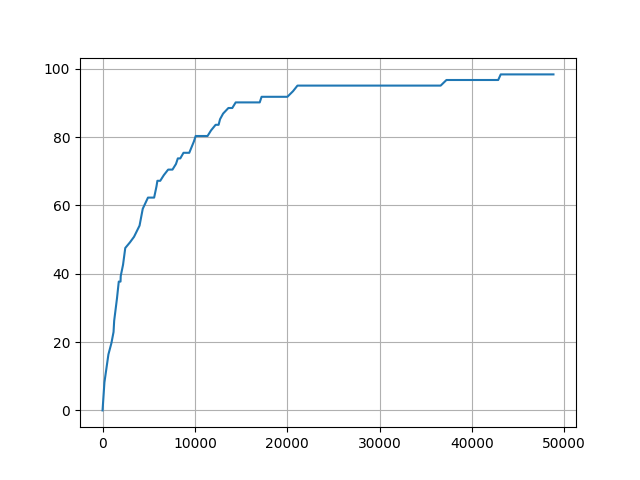
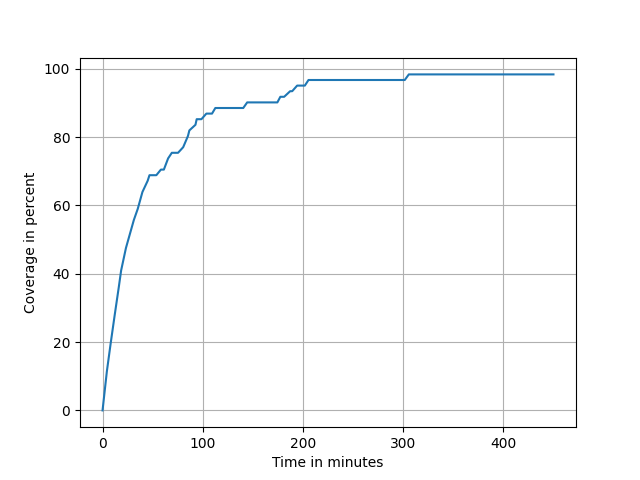
2D: updated result recording with time

diff --git a/2D/src/RandomWalkController.java b/2D/src/RandomWalkController.java
@@ -30,17 +30,17 @@ public class RandomWalkController {
 
     public void randomWalkRecordResult() {
         ArrayList<String> coveragePercentage = new ArrayList<>();
-        ArrayList<String> angle = new ArrayList<>();
+        ArrayList<String> time = new ArrayList<>();
         int numSteps = 0;
 
         while (!world.isCovered()) {
 
             if (numSteps % 10 == 0) {
-                double percent = 100 - world.getCoveragePercentage();
+                double percent = world.getCoveragePercentage();
                 float absAngle = lappa.getAbsoluteMotorMovement();
+                float t = convertAbsAngleToTimeInMinutes(absAngle, numSteps);
                 coveragePercentage.add(Double.toString(percent));
-                angle.add(Float.toString(absAngle));
-                System.out.println("Percentage covered: " + percent);
+                time.add(Float.toString(t));
             }
 
             float motor = new Random().nextInt(361) - 180;
@@ -56,7 +56,7 @@ public class RandomWalkController {
 
         System.out.println("World is covered");
         writeResultsToCSV(convertListToArray(coveragePercentage), "coverage_percentage.csv");
-        writeResultsToCSV(convertListToArray(angle), "angle.csv");
+        writeResultsToCSV(convertListToArray(time), "time.csv");
     }
 
     private void writeResultsToCSV(String[] data, String path) {
@@ -74,5 +74,9 @@ public class RandomWalkController {
     private String[] convertListToArray(ArrayList<String> data) {
         String[] arr = new String[data.size()];
         return data.toArray(arr);
+    }
+
+    private float convertAbsAngleToTimeInMinutes(float absAngle, int numSteps) {
+        return (numSteps * 3 + absAngle * 1/2) / 60;
     }
 }

diff --git a/2D/src/World.java b/2D/src/World.java
@@ -33,7 +33,7 @@ public class World {
     public double getCoveragePercentage() {
         double totalPointsToCover = pointsToCover.size();
         double restToCover = unCoveredPoints.size();
-        return (restToCover / totalPointsToCover) * 100;
+        return 100 - ((restToCover / totalPointsToCover) * 100);
     }
 
     private double normalizeTo1Decimal(double coord) {

diff --git a/2D-plot/coverageplot.py b/2D-plot/coverageplot.py
@@ -2,9 +2,11 @@ import matplotlib.pyplot as plt
 import numpy as np
 
 coverage = np.genfromtxt("coverage_percentage.csv", delimiter=",")
-time = np.genfromtxt("angle.csv", delimiter=",")
+time = np.genfromtxt("time.csv", delimiter=",")
 
 plt.plot(time, coverage)
+plt.xlabel("Time in minutes")
+plt.ylabel("Coverage in percent")
 plt.grid()
 plt.savefig("graph.png")
 plt.show()

diff --git a/2D/src/Main.java b/2D/src/Main.java
@@ -9,7 +9,7 @@ public class Main
         World world = new World(2, 2, 0.4);
         Lappa lappa = new Lappa(sim, world);
         RandomWalkController random = new RandomWalkController(lappa, world);
-        random.randomWalk();
+        random.randomWalkRecordResult();
         sim.stopSimulation();
     }
 }
